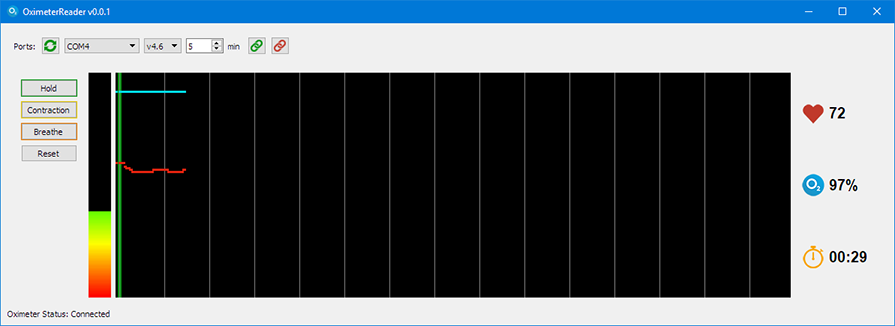
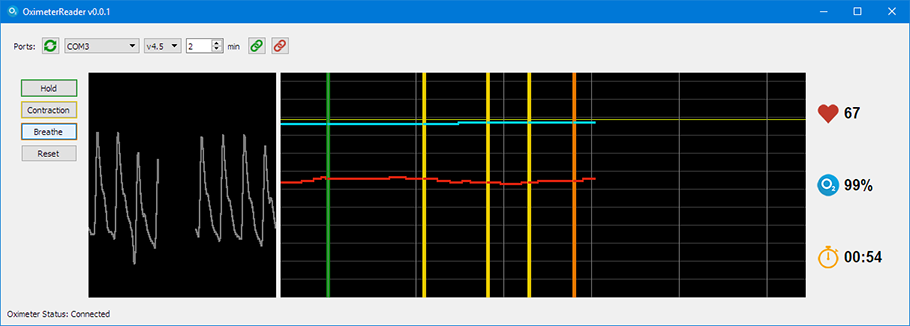
- curve instead of histogram for pulse

diff --git a/ui.py b/ui.py
@@ -15,6 +15,7 @@ import cms50v46
 import utils
 import config
 import datetime
+import math
 from enum import Enum
 from functools import partial
 from threading import Thread, Lock
@@ -54,23 +55,31 @@ class ReaderUIUpdater(Thread):
         self.events = []
         self.apneaTime = None
         self.apneaStatus = ReaderEvent.END
-        self.pulseMaxValue = 127
+        self.pulseMaxValue = 100
         self.bpmMaxValue = 127
-        self.o2MaxValue = 102
+        self.o2MaxValue = 127
+        self.pulseFrequency = 2  # how many samples we skip
         self.bpmFrequency = 60  # based on quick calculation, the oxymeter runs at 60hz
         self.updateRate = int(self.bpmFrequency / (self.ui.bpmImage.width() / (int(self.ui.minuteField.value()) * 60)))
+        self.drawBpmLines()
+        self.previousYPulse = 0
 
-    """ Update the pulse image """
-    def updatePulseImage(self, liveDataSample):
+    """ Update the pulse images """
+    def updatePulseImage(self, iSample, liveDataSample):
         pulseValue = min(liveDataSample[3], self.pulseMaxValue)
+        pulseXPixel = iSample % self.ui.pulseImage.width()
         pulseYPixel = int(pulseValue / self.pulseMaxValue * self.ui.pulseImage.height())
-        pixelColor = QtGui.QColor()
+        #pixelColor = QtGui.QColor()
+        #pixelColor.setHsl(pulseYPixel / self.ui.pulseImage.height() * 255, 255, 127)
+        pixelColor = config.pulseColor
+        lineShift = int((pulseYPixel - self.previousYPulse) / 2)
+        # clean pulse image
+        bandWidth = int(self.ui.pulseImage.width() * 0.2)
+        utils.drawBox(self.ui.pulseImage, pulseXPixel + bandWidth / 2, self.ui.pulseImage.height() / 2, bandWidth, self.ui.pulseImage.height(), config.dfltBkgColor)
         # update pulse image
-        self.ui.pulseImage.fill(QtCore.Qt.black)
-        for iY in range(pulseYPixel):
-            pixelColor.setHsl(iY / self.ui.pulseImage.height() * 255, 255, 127)
-            utils.drawBox(self.ui.pulseImage, int(self.ui.pulseImage.width() / 2), self.ui.pulseImage.height() - iY - 1, self.ui.pulseImage.width(), 1, pixelColor)
+        utils.drawBox(self.ui.pulseImage, pulseXPixel, self.ui.pulseImage.height() - pulseYPixel - 1 + lineShift, config.curvePixelSize, config.curvePixelSize + abs(lineShift * 2), pixelColor)
         self.ui.pulseImageHolder.setPixmap(QtGui.QPixmap.fromImage(self.ui.pulseImage))
+        self.previousYPulse = pulseYPixel
 
     """ Update the bpm image """
     def updateBpmImage(self, iSample, liveDataSample):
@@ -89,11 +98,20 @@ class ReaderUIUpdater(Thread):
     def drawLineBpmImage(self, iSample, color):
         utils.drawBox(self.ui.bpmImage, iSample, self.ui.bpmImage.height() / 2, config.curvePixelSize + 2, self.ui.bpmImage.height(), color)
 
-    """ Draw the grid """
-    def drawGrid(self, iSample):
-        gridSampleSize = int(self.ui.bpmImage.width() / (int(self.ui.minuteField.value()) * 60) * config.gridFrequency)
-        for iGrid in range(iSample, self.ui.bpmImage.width(), gridSampleSize):
-            utils.drawBox(self.ui.bpmImage, iGrid, self.ui.bpmImage.height() / 2, 1, self.ui.bpmImage.height(), config.gridColor)
+    """ Draw the time cols """
+    def drawTimeCols(self, iSample):
+        colSampleSize = math.ceil(self.ui.bpmImage.width() / (self.ui.minuteField.value() * 60) * config.timeColFrequency)
+        for iGrid in range(iSample, self.ui.bpmImage.width(), colSampleSize):
+            utils.drawBox(self.ui.bpmImage, iGrid, self.ui.bpmImage.height() / 2, 1, self.ui.bpmImage.height(), config.gridColColor)
+
+    """ Draw the bpm lines """
+    def drawBpmLines(self):
+        lineSampleSize = math.ceil(self.ui.bpmImage.height() / self.bpmMaxValue * config.bpmLineFrequency)
+        for iGrid in range(0, self.ui.bpmImage.height(), lineSampleSize):
+            utils.drawBox(self.ui.bpmImage, self.ui.bpmImage.width() / 2, self.ui.bpmImage.height() - iGrid -1, self.ui.bpmImage.width(), 1, config.gridLineColor)
+        # draw a specific line for the mark 100
+        lineSamplePixel = math.ceil(self.ui.bpmImage.height() / self.bpmMaxValue * 100)
+        utils.drawBox(self.ui.bpmImage, self.ui.bpmImage.width() / 2, self.ui.bpmImage.height() - lineSamplePixel - 1, self.ui.bpmImage.width(), 1, config.gridLine100Color)
 
     """ Update time """
     def updateTimer(self):
@@ -135,7 +153,7 @@ class ReaderUIUpdater(Thread):
             if event == ReaderEvent.APNEA:
                 self.apneaTime = datetime.datetime.now()
                 self.drawLineBpmImage(iSample, config.apneaColor)
-                self.drawGrid(iSample)
+                self.drawTimeCols(iSample)
                 self.apneaStatus = ReaderEvent.APNEA
             elif event == ReaderEvent.CONTRACTION:
                 self.drawLineBpmImage(iSample, config.contractionColor)
@@ -147,7 +165,7 @@ class ReaderUIUpdater(Thread):
 
     """ Main thread run, read the packet loop """
     def run(self):
-        bpmSample = 0
+        iSample = 0
         for liveData in self.oximeter.getLiveData():
             # print(liveData)
             if self.checkOximeterStatus() is False:
@@ -155,12 +173,13 @@ class ReaderUIUpdater(Thread):
             liveDataSample = liveData.getCsvData()
             self.ui.bpmValueLabel.setText(str(liveDataSample[1]))
             self.ui.o2ValueLabel.setText(str(liveDataSample[2]) + '%')
-            self.updatePulseImage(liveDataSample)
-            if bpmSample % self.updateRate == 0:
-                self.consumeEvent(int(bpmSample / self.updateRate))
-                self.updateBpmImage(int(bpmSample / self.updateRate), liveDataSample)
+            if iSample % self.pulseFrequency == 0:
+                self.updatePulseImage(int(iSample / self.pulseFrequency), liveDataSample)
+            if iSample % self.updateRate == 0:
+                self.consumeEvent(int(iSample / self.updateRate))
+                self.updateBpmImage(int(iSample / self.updateRate), liveDataSample)
                 self.updateTimer()
-            bpmSample += 1
+            iSample += 1
         self.oximeter.disconnect()
         self.checkOximeterStatus()
 
@@ -175,7 +194,7 @@ class ReaderUI(QtWidgets.QMainWindow):
         self.setWindowIcon(QtGui.QIcon(utils.getIconsDir() + "oxygen.png"))
         textFont = QtGui.QFont( "Arial", 15, QtGui.QFont.Bold)
         self.windowSize = None
-        self.bmpImageSize = QtCore.QSize(900, 300)
+        self.bmpImageSize = QtCore.QSize(config.widthBpmCurveImage, config.heightImages)
 
         # Main Layout
         centralWidget = QtWidgets.QWidget()
@@ -240,10 +259,9 @@ class ReaderUI(QtWidgets.QMainWindow):
         controlLayout.addWidget(self.contractionButton)
         controlLayout.addWidget(self.breatheButton)
         controlLayout.addWidget(self.resetButton)
-
         bottomLayout.addWidget(controlWidget, 0, 0, QtCore.Qt.AlignTop)
 
-        # pulse image
+        # pulse curve image
         self.pulseImage = QtGui.QImage(config.widthPulseImage, self.bmpImageSize.height(), QtGui.QImage.Format_RGB32)
         self.pulseImage.fill(config.dfltBkgColor)
         self.pulseImageHolder = QtWidgets.QLabel()

diff --git a/config.py b/config.py
@@ -14,7 +14,9 @@ from Qtpy.Qt import QtGui
 
 # Color of the background of the bpm and pulse images
 dfltBkgColor = QtGui.QColor(0, 0, 0)
-# Color of the bmpColor
+# Color of the pulse curve
+pulseColor = QtGui.QColor(125, 125, 125)
+# Color of the bmp curve
 bmpColor = QtGui.QColor(227, 35, 15)
 # Color of the o2 curve
 o2Color = QtGui.QColor(0, 215, 234)
@@ -25,12 +27,18 @@ contractionColor = QtGui.QColor(234, 204, 0)
 # Color of the breatheline / button
 breatheColor = QtGui.QColor(234, 121, 0)
 # Color of the grid lines
-gridColor = QtGui.QColor(125, 125, 125)
+gridColColor = QtGui.QColor(125, 125, 125)
+gridLineColor = QtGui.QColor(62, 62, 62)
+gridLine100Color = QtGui.QColor(218, 238, 0)
+# Frequency of the grid columns (a column every X seconds)
+timeColFrequency = 20  # seconds
 # Frequency of the grid (a line every X seconds)
-gridFrequency = 20  # seconds
+bpmLineFrequency = 10  # pulse
 # Width of the curves
 curvePixelSize = 3
 # Width of the pulse image
-widthPulseImage = 30
+widthPulseImage = 250
+widthBpmCurveImage = 700
+heightImages = 300
 # Number of minutes to monitor
 dfltMinutes = 5
